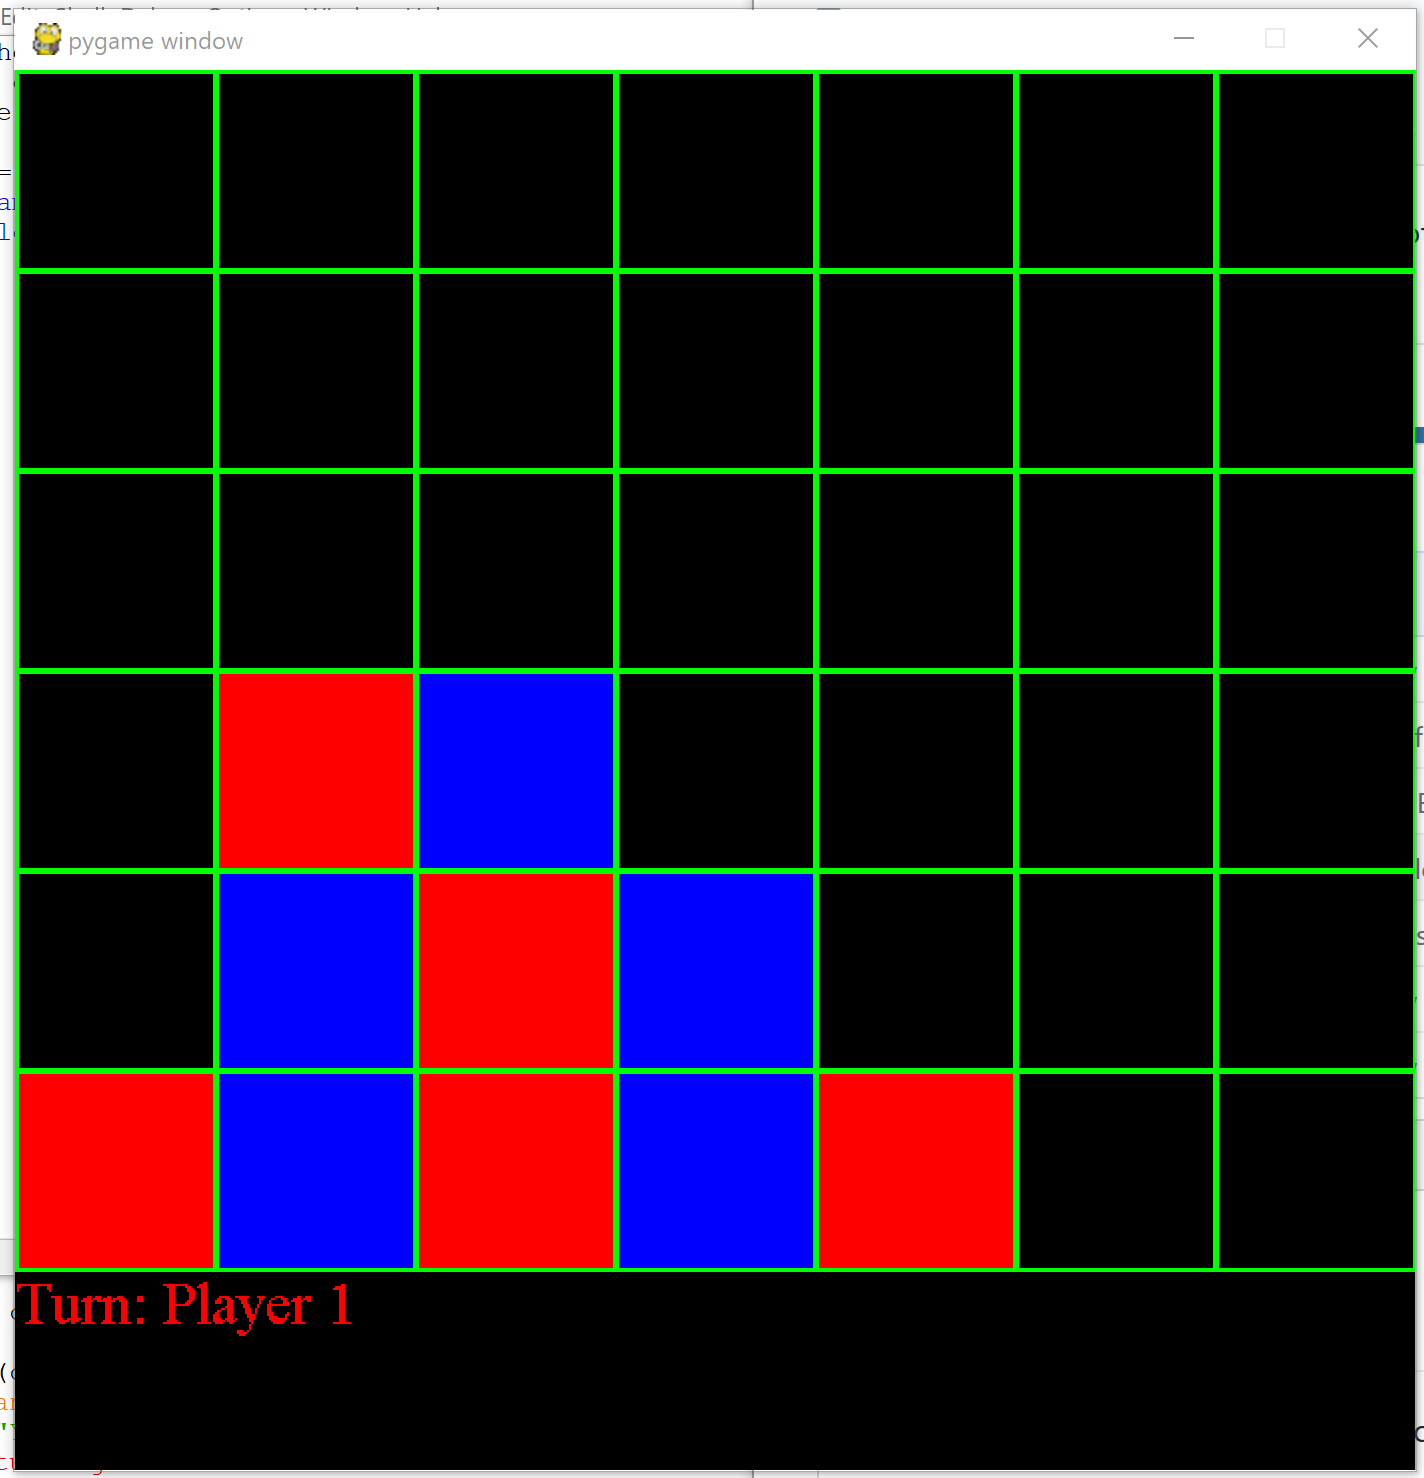
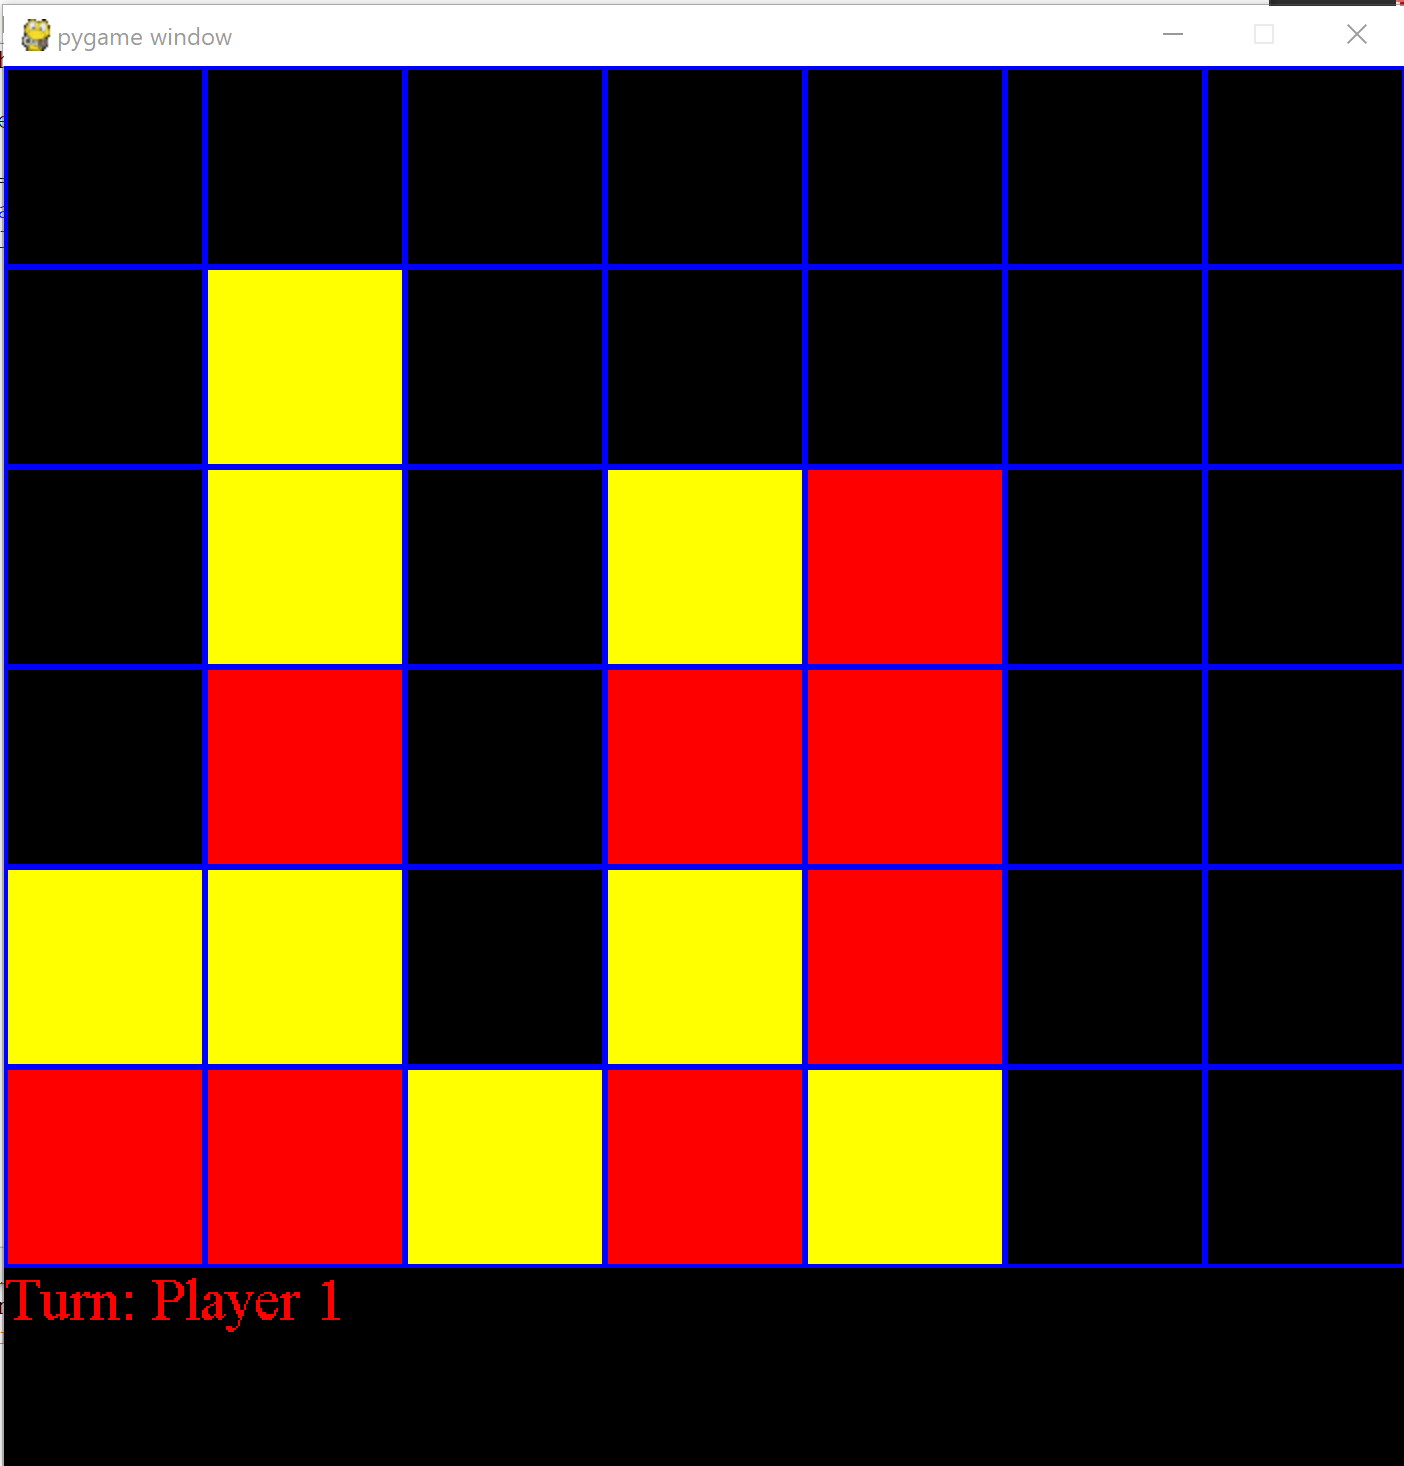
updating view a bit

diff --git a/view.py b/view.py
@@ -47,12 +47,12 @@ class py4view:
                         if box.get_type() == constant.CHIPTYPE.player1:
                             pygame.draw.rect(screen, constant.RED, [box.get_x() * constant.BLOCKSIZE, box.get_y() * constant.BLOCKSIZE, constant.BLOCKSIZE, constant.BLOCKSIZE])
                         elif box.get_type() == constant.CHIPTYPE.player2:
-                            pygame.draw.rect(screen, constant.BLUE, [box.get_x() * constant.BLOCKSIZE, box.get_y() * constant.BLOCKSIZE, constant.BLOCKSIZE, constant.BLOCKSIZE])
-                        pygame.draw.rect(screen, constant.GREEN, [box.get_x() * constant.BLOCKSIZE, box.get_y() * constant.BLOCKSIZE, constant.BLOCKSIZE, constant.BLOCKSIZE], 2)
+                            pygame.draw.rect(screen, constant.YELLOW, [box.get_x() * constant.BLOCKSIZE, box.get_y() * constant.BLOCKSIZE, constant.BLOCKSIZE, constant.BLOCKSIZE])
+                        pygame.draw.rect(screen, constant.BLUE, [box.get_x() * constant.BLOCKSIZE, box.get_y() * constant.BLOCKSIZE, constant.BLOCKSIZE, constant.BLOCKSIZE], 2)
                 if self.__model.get_turn() == constant.TURN.player1:
                     textsurface = myfont.render("Turn: Player 1", False, constant.RED)
                 else:
-                    textsurface = myfont.render("Turn: Player 2", False, constant.RED)
+                    textsurface = myfont.render("Turn: Player 2", False, constant.YELLOW)
                 screen.blit(textsurface,(0,constant.SIZEY * constant.BLOCKSIZE))
                 pygame.display.flip()
                 eventgo = False

diff --git a/constant.py b/constant.py
@@ -9,6 +9,7 @@ WHITE = (255, 255, 255)
 BLUE =  (  0,   0, 255)
 GREEN = (  0, 255,   0)
 RED =   (255,   0,   0)
+YELLOW = (255, 255, 0)
 
 #ENUM for type of chip in a GridBox. Set to NONE if there isn't a chip in location.
 class CHIPTYPE(enum.Enum):
